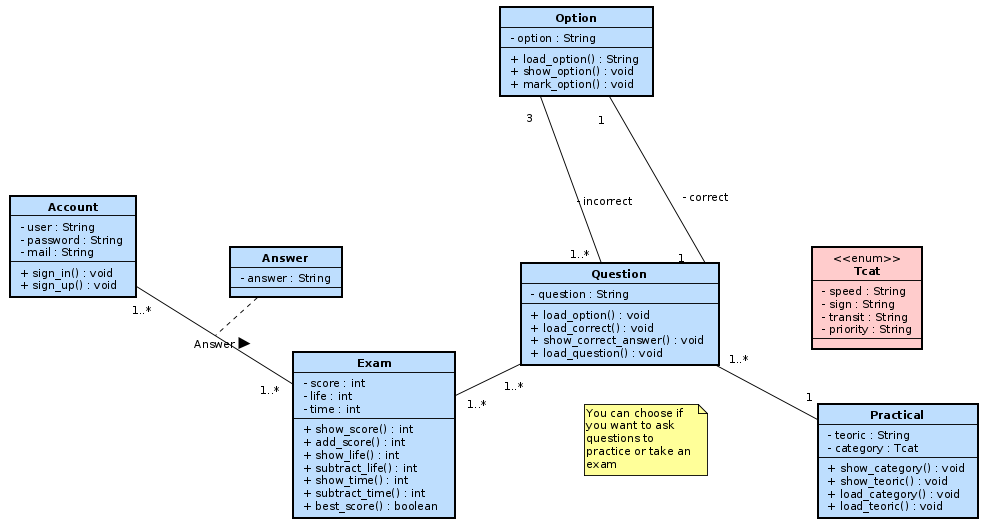
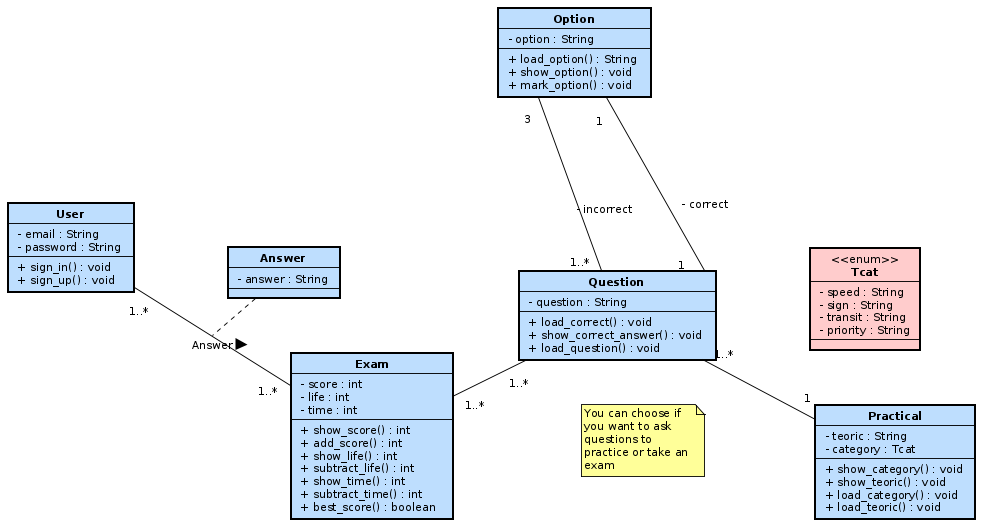
migración user, ddc

diff --git a/db/schema.rb b/db/schema.rb
@@ -1,0 +1,19 @@
+# This file is auto-generated from the current state of the database. Instead
+# of editing this file, please use the migrations feature of Active Record to
+# incrementally modify your database, and then regenerate this schema definition.
+#
+# This file is the source Rails uses to define your schema when running `bin/rails
+# db:schema:load`. When creating a new database, `bin/rails db:schema:load` tends to
+# be faster and is potentially less error prone than running all of your
+# migrations from scratch. Old migrations may fail to apply correctly if those
+# migrations use external dependencies or application code.
+#
+# It's strongly recommended that you check this file into your version control system.
+
+ActiveRecord::Schema[7.0].define(version: 2023_05_12_143052) do
+  create_table "users", force: :cascade do |t|
+    t.string "email"
+    t.string "password"
+  end
+
+end

diff --git a/server.rb b/server.rb
@@ -2,6 +2,7 @@ require 'sinatra/base'
 require 'bundler/setup'
 require 'sinatra/reloader' if Sinatra::Base.environment == :development
 require "sinatra/activerecord"
+require_relative 'models/user'
 
 class App < Sinatra::Application
   def initialize(app = nil)

diff --git a/db/migrate/20230512143052_create_users.rb b/db/migrate/20230512143052_create_users.rb
@@ -1,0 +1,8 @@
+class CreateUsers < ActiveRecord::Migration[7.0]
+  def change
+    create_table :users do |t|
+      t.string :email
+      t.string :password
+    end
+  end
+end

diff --git a/models/user.rb b/models/user.rb
@@ -1,0 +1,2 @@
+class User < ActiveRecord::Base
+end
